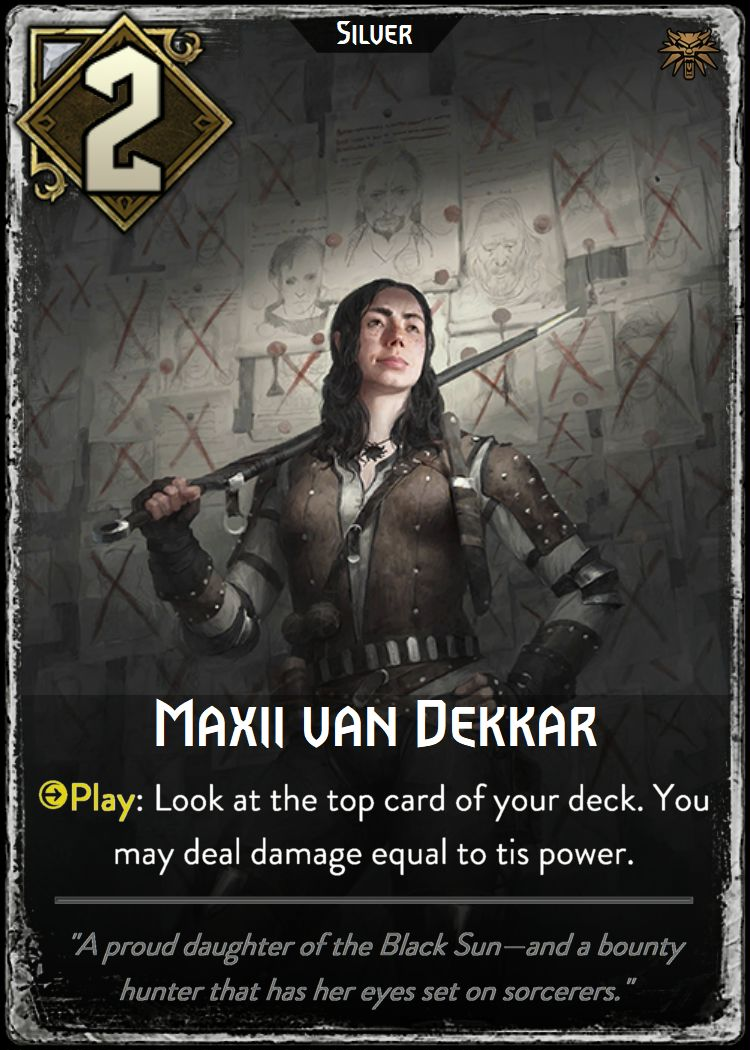
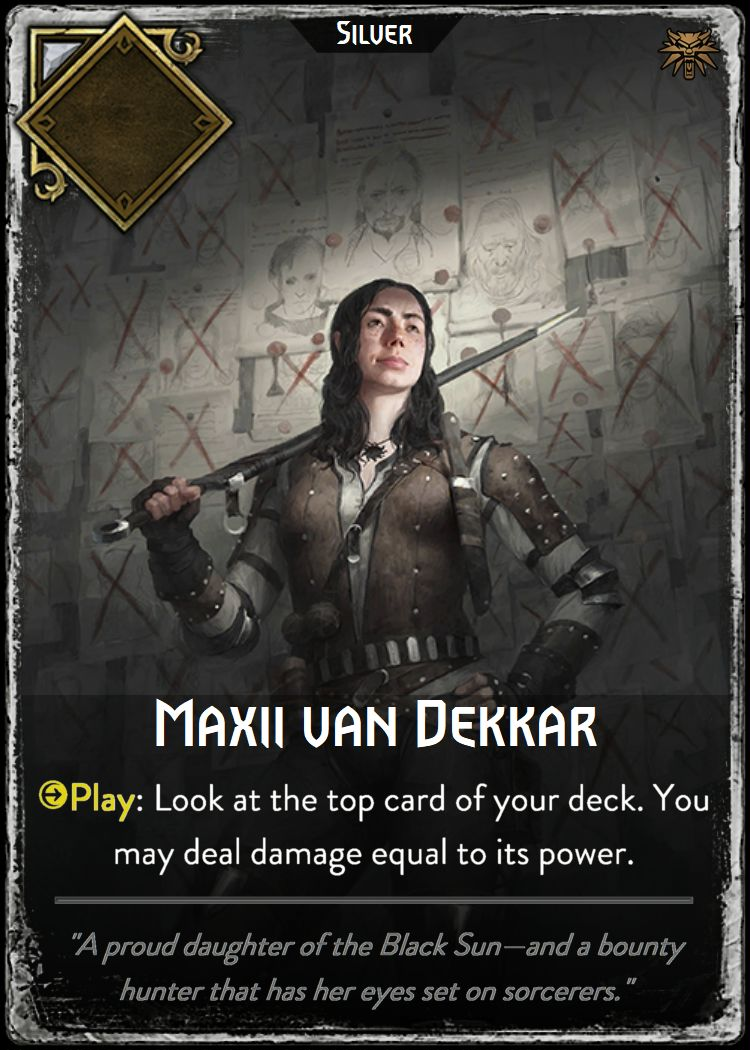
Northern Realms batch 2: Drummer, Temerian Infantry, Scout Order; Maxii art
- Maxii van Dekkar: new art with an empty power diamond (no more doubled 2).
- Blue Stripes Scout gets an Order with its Play effect (refresh a used
  Order on another own bronze/token card, never a Scout). New generic
  ability.validTargets: such an Order isn't ready while no valid target
  exists, and its targeting only highlights valid targets.
- Wagon's Order can no longer target Wagon itself (excludeSelf).
- Temerian Drummer (2, bronze): Order +1 to another card; its Order
  refreshes whenever its owner puts an Order-bearing card into play (hand
  play or revive via notifyAllyPlay, or an Order-bearing token via
  createTokensRightOf), no per-turn limit.
- Temerian Infantry (2, bronze): Order deal 1; +2 power on its owner's
  exactly-2nd Order of the turn (own Order included), hooked into
  noteOrderUsed next to Battering Ram.
- AI: uses the Scout Order only when the refreshed Order would be used
  (buff, or damage with a kill available), and now runs a second Order
  pass after its play resolves so refreshed Orders (Drummer) get used.

Claude-Session: https://claude.ai/code/session_01M1nxMRp1fono3WWM5XJ16Q

Changed region(s): [[0.092, 0.0305, 0.2453, 0.2133], [0.644, 0.7924, 0.7053, 0.8229]]

diff --git a/game.html b/game.html
@@ -1806,7 +1806,7 @@ const CARD_DB = {
   geralt:            { id: 'geralt', name: 'Geralt of Rivia', power: 8, tier: 'gold', img: 'cards/geralt.jpg', abilities: [] },
 
   wagon:             { id: 'wagon', name: 'Wagon', power: 2, tier: 'bronze', img: 'cards/wagon.jpg',
-                       abilities: [ { trigger: 'order', needsTarget: true, effect: (ctx, target) => applyPowerDelta(target, 3) } ] },
+                       abilities: [ { trigger: 'order', needsTarget: true, excludeSelf: true, effect: (ctx, target) => applyPowerDelta(target, 3) } ] },
   highwayman:        { id: 'highwayman', name: 'Highwayman', power: 2, tier: 'bronze', img: 'cards/highwayman.jpg', abilities: [], playTargetDamage: 2 },
   mercenary_mauler:  { id: 'mercenary_mauler', name: 'Mercenary Mauler', power: 1, tier: 'bronze', img: 'cards/mercenary_mauler.jpg',
                        abilities: [ { trigger: 'order', needsTarget: true, isDamage: true, amount: 4, effect: (ctx, target) => applyDamage(target, 4) } ] },
@@ -1872,7 +1872,13 @@ const CARD_DB = {
   // Play: refresh the (used) Order of another bronze/token card on its
   // owner's board -- never another Blue Stripes Scout. See scoutRefreshTargets().
   blue_stripes_scout: { id: 'blue_stripes_scout', name: 'Blue Stripes Scout', power: 2, tier: 'bronze', faction: 'northern_realms', img: 'cards/blue_stripes_scout.jpg',
-                       abilities: [], playRefreshOrder: true },
+                       // Play AND Order: refresh a used Order on another own
+                       // bronze/token card (never a Scout). The Order is only
+                       // "ready" while such a target exists (validTargets).
+                       abilities: [ { trigger: 'order', needsTarget: true, isRefresh: true,
+                                      validTargets: (side, card) => scoutRefreshTargets(side, card),
+                                      effect: (ctx, target) => { refreshOrder(target); logMsg(`${target.name}'s Order is refreshed.`); } } ],
+                       playRefreshOrder: true },
   kaedweni_cavalry:  { id: 'kaedweni_cavalry', name: 'Kaedweni Cavalry', power: 3, tier: 'bronze', faction: 'northern_realms', img: 'cards/kaedweni_cavalry.jpg',
                        abilities: [ { trigger: 'order', needsTarget: true, excludeSelf: true,
                                       effect: (ctx, target) => { applyPowerDelta(target, 1); createTokensRightOf(ctx.side, ctx.card, 'soldier_token', 1); } } ] },
@@ -1883,6 +1889,17 @@ const CARD_DB = {
   // Play: if its owner has used fewer than 2 Orders this turn, it's discarded.
   siege_tower:       { id: 'siege_tower', name: 'Siege Tower', power: 6, tier: 'bronze', faction: 'northern_realms', img: 'cards/siege_tower.jpg',
                        abilities: [ { trigger: 'onPlay', effect: (ctx) => resolveSiegeTower(ctx.side, ctx.card) } ] },
+  // Order: +1 to another card. Its Order refreshes whenever its owner plays
+  // a card that has an Order (hand, revive, or an Order-bearing token) --
+  // see refreshOnOrderCardEntered().
+  temerian_drummer:  { id: 'temerian_drummer', name: 'Temerian Drummer', power: 2, tier: 'bronze', faction: 'northern_realms', img: 'cards/temerian_drummer.jpg',
+                       refreshOnOrderCardPlay: true,
+                       abilities: [ { trigger: 'order', needsTarget: true, excludeSelf: true, effect: (ctx, target) => applyPowerDelta(target, 1) } ] },
+  // Order: deal 1. Passive: +2 power when its owner uses exactly their 2nd
+  // Order in a turn (its own included) -- see noteOrderUsed().
+  temerian_infantry: { id: 'temerian_infantry', name: 'Temerian Infantry', power: 2, tier: 'bronze', faction: 'northern_realms', img: 'cards/temerian_infantry.jpg',
+                       buffOnSecondOrder: 2,
+                       abilities: [ { trigger: 'order', needsTarget: true, isDamage: true, amount: 1, effect: (ctx, target) => applyDamage(target, 1) } ] },
   // Token: never in random decks or the Card Library, and it vanishes when
   // it leaves the board (never reaches a discard pile) -- see sendToGraveyard.
   soldier_token:     { id: 'soldier_token', name: 'Soldier', power: 1, tier: 'token', faction: 'northern_realms', img: 'cards/soldier_token.jpg',
@@ -2458,6 +2475,9 @@ function isOrderReady(side, card) {
   if (card.orderUsed) return false;
   if (card.playedTurn === undefined || state.turnCounter <= card.playedTurn) return false;
   if (state.players[side].hand.length === 0) return false;
+  // Orders that can only aim at specific targets (e.g. Blue Stripes Scout's
+  // refresh) aren't ready at all while none exist.
+  if (ability.validTargets && ability.validTargets(side, card).length === 0) return false;
   return true;
 }
 function hasAnyUsableOrder(side) {
@@ -2479,7 +2499,24 @@ function noteOrderUsed(side) {
       refreshOrder(c);
       logMsg(`${side === 'player' ? 'Your' : "Opponent's"} ${c.name}'s Order is refreshed.`);
     });
+    // Temerian Infantry: +2 power on its owner's 2nd Order of the turn
+    p.board.filter(c => c.buffOnSecondOrder).forEach(c => {
+      applyPowerDelta(c, c.buffOnSecondOrder);
+      logMsg(`${side === 'player' ? 'Your' : "Opponent's"} ${c.name} gains ${c.buffOnSecondOrder} power.`);
+    });
   }
+}
+
+/* Temerian Drummer: its Order refreshes whenever its owner puts a card with
+   an Order ability into play -- a hand play or a revive (both reach
+   notifyAllyPlay) or an Order-bearing token (createTokensRightOf). No
+   per-turn limit. The entering card itself is never the one refreshed. */
+function refreshOnOrderCardEntered(side, enteredCard) {
+  if (!enteredCard || !findOrderAbility(enteredCard)) return;
+  state.players[side].board.filter(c => c.refreshOnOrderCardPlay && c.uid !== enteredCard.uid && c.orderUsed).forEach(c => {
+    refreshOrder(c);
+    logMsg(`${side === 'player' ? 'Your' : "Opponent's"} ${c.name}'s Order is refreshed.`);
+  });
 }
 function ordersUsedThisTurn(side) {
   return state.players[side].ordersUsedThisTurn || 0;
@@ -2518,6 +2555,7 @@ function createTokensRightOf(side, sourceCard, tokenId, count) {
     t._justCreated = true;
     board.splice(idx + 1 + i, 0, t);
     created.push(t);
+    refreshOnOrderCardEntered(side, t);
   }
   logMsg(`${side === 'player' ? 'You create' : 'Opponent creates'} ${count} ${CARD_DB[tokenId].name} token${count > 1 ? 's' : ''}.`);
   return created;
@@ -3214,6 +3252,7 @@ function notifyAllyPlay(side, playedCard, isFirstPlayThisTurn) {
       .filter(a => a.trigger === 'onAllyPlay')
       .forEach(a => a.effect(boardCard, { side, playedCard, isFirstPlayThisTurn, state }));
   });
+  refreshOnOrderCardEntered(side, playedCard);
   triggerDiscardReturnPassives(side, playedCard);
 }
 
@@ -3660,6 +3699,13 @@ async function aiUseAvailableOrders() {
         continue;
       }
       target = pickDamageTarget(killable, (a, b) => a.power < b.power);
+    } else if (ability.isRefresh) {
+      // Blue Stripes Scout's Order: only worth it if the refreshed Order would
+      // actually get used -- a buff, or a damage Order with a kill available.
+      target = aiPickScoutTarget(readyCard);
+      const ta = target && findOrderAbility(target);
+      const useful = ta && (!ta.isDamage || state.players.player.board.some(e => e.power > 0 && e.power <= ta.amount));
+      if (!useful) { heldBack.add(readyCard.uid); continue; }
     } else if (ability.needsTarget) {
       // buffs a chosen ally (e.g. Zoltan Chivay, Kaedweni Cavalry) -- pick
       // the strongest one (never itself if the ability excludes that)
@@ -3810,6 +3856,13 @@ async function aiTakeTurn() {
     // it's safe to let allies (e.g. Tridam Infantry) react to it.
     if (playedInfo) {
       notifyAllyPlay('ai', playedInfo.card, playedInfo.isFirstPlayThisTurn);
+      render();
+    }
+    // Orders that became ready again because of this play (e.g. Temerian
+    // Drummer refreshing, a Scout refresh) get used before the turn ends.
+    if (state.players.ai.board.some(c => isOrderReady('ai', c))) {
+      await delay(400);
+      await aiUseAvailableOrders();
       render();
     }
     // draw only happens once the turn is actually ending
@@ -5094,7 +5147,12 @@ function activateOrderAbility(side, card) {
   if (ability.isDiscardPlay) {
     activateDiscardPlayOrder(side, card, ability);
   } else if (ability.needsTarget) {
-    startTargeting({ side, card, kind: 'order', ability, excludeSelf: !!ability.excludeSelf });
+    const session = { side, card, kind: 'order', ability, excludeSelf: !!ability.excludeSelf };
+    if (ability.validTargets) {
+      const valid = new Set(ability.validTargets(side, card).map(c => c.uid));
+      session.filter = c => valid.has(c.uid);
+    }
+    startTargeting(session);
   } else {
     applyOrderAbility(side, card, ability, card, () => render());
   }
